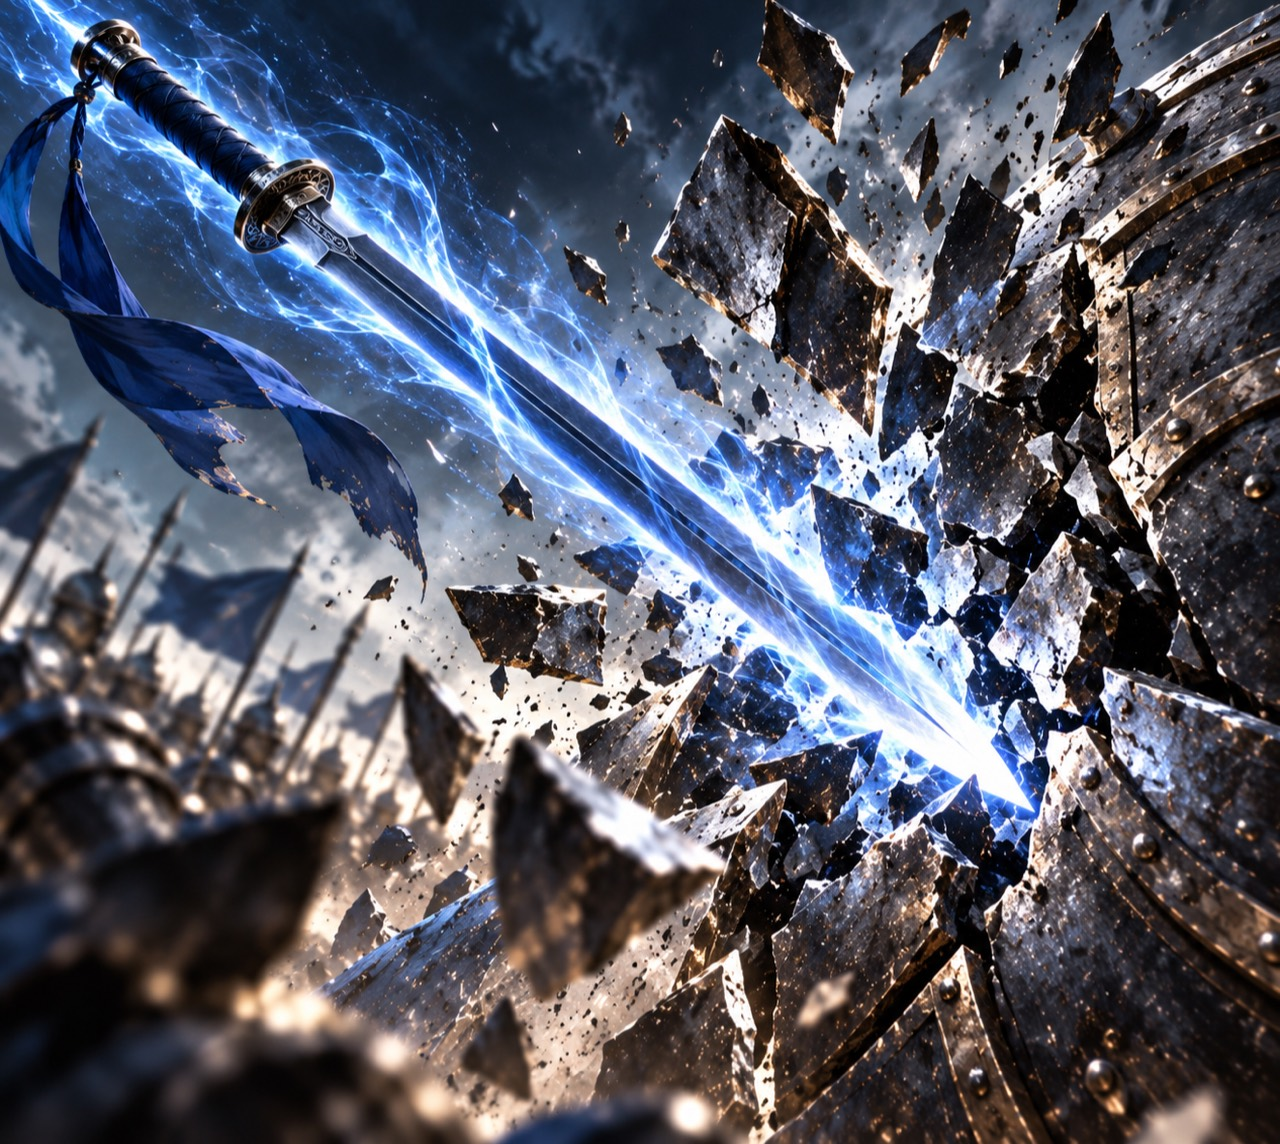
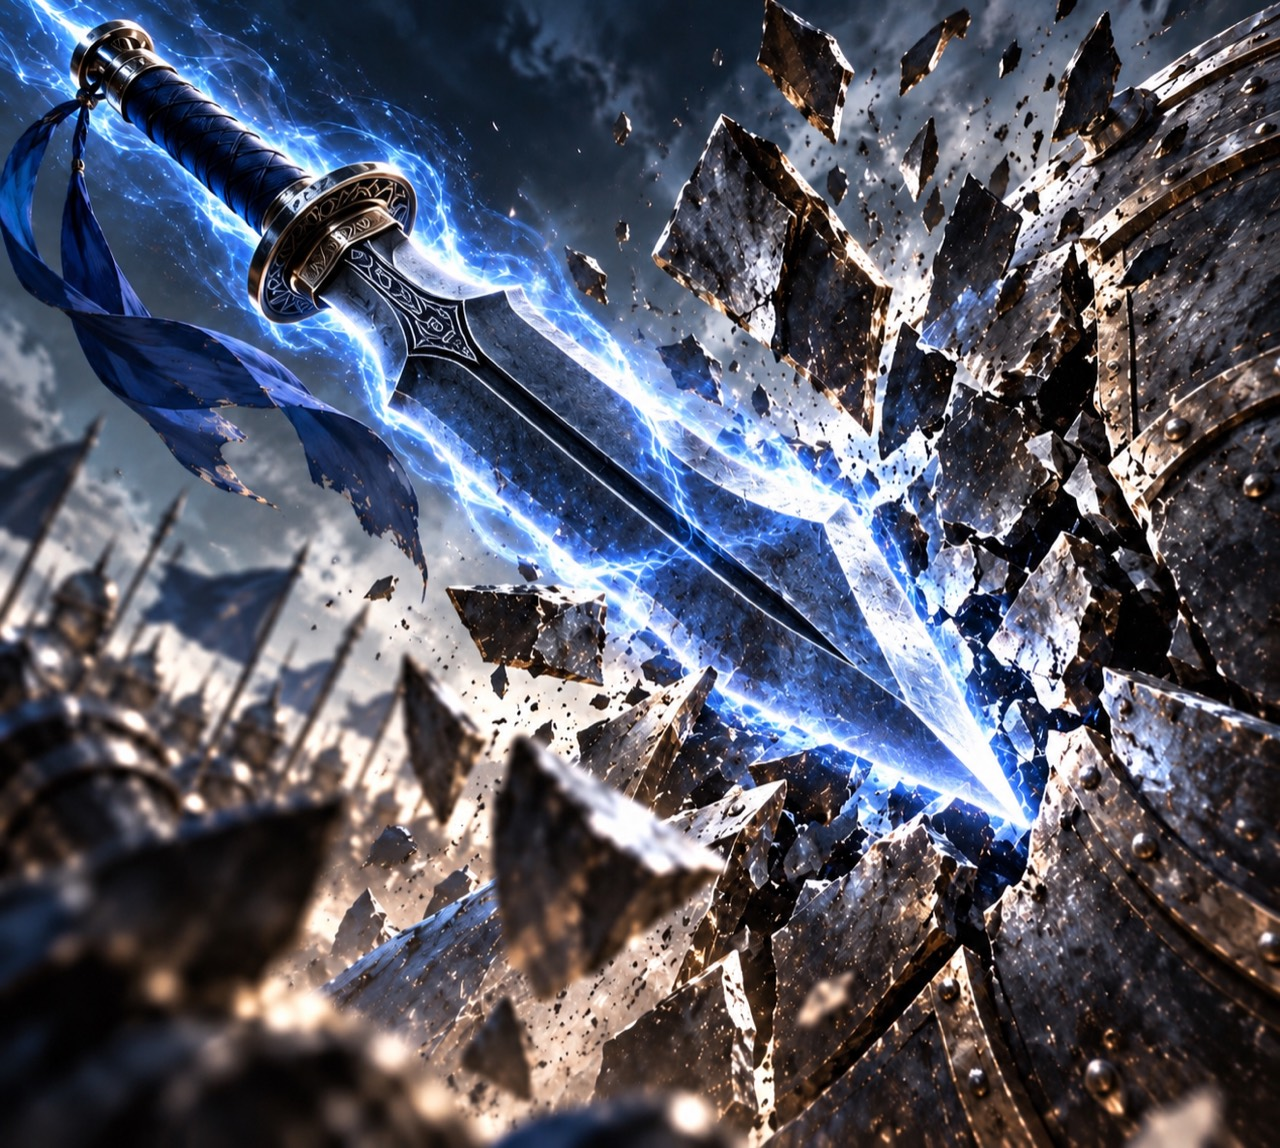
Update weapon and shield card artwork

diff --git a/app/globals.css b/app/globals.css
@@ -79,6 +79,9 @@ input{font:inherit}.landing-shell,.lobby-shell{min-height:100vh;position:relativ
 .game-card.shadowrunner,.played-card.shadowrunner,.game-card.hexmark,.played-card.hexmark,.game-card.yellowhoofedflyinglightning,.played-card.yellowhoofedflyinglightning,.game-card.defensivehorse,.played-card.defensivehorse{background-image:linear-gradient(180deg,#07111bc4 0%,#1f4d6b70 46%,#03070ce8 100%),url("/defensive-horse-card.jpg");background-position:center;background-size:cover;border-color:#a9d8ef;color:#effaff;text-shadow:0 1px 4px #000}.game-card.shadowrunner .card-name-mark,.played-card.shadowrunner .card-name-mark,.game-card.hexmark .card-name-mark,.played-card.hexmark .card-name-mark,.game-card.yellowhoofedflyinglightning .card-name-mark,.played-card.yellowhoofedflyinglightning .card-name-mark,.game-card.defensivehorse .card-name-mark,.played-card.defensivehorse .card-name-mark{color:#d7f2ff;text-shadow:0 2px 5px #000}.game-card.shadowrunner>strong,.played-card.shadowrunner>strong,.game-card.hexmark>strong,.played-card.hexmark>strong,.game-card.yellowhoofedflyinglightning>strong,.played-card.yellowhoofedflyinglightning>strong,.game-card.defensivehorse>strong,.played-card.defensivehorse>strong{color:#e2f7ff;text-shadow:0 1px 4px #000}.game-card.shadowrunner .corner,.played-card.shadowrunner>i,.game-card.hexmark .corner,.played-card.hexmark>i,.game-card.yellowhoofedflyinglightning .corner,.played-card.yellowhoofedflyinglightning>i,.game-card.defensivehorse .corner,.played-card.defensivehorse>i{text-shadow:0 2px 5px #000}
 .game-card.rockcleavingaxe,.played-card.rockcleavingaxe{background-image:linear-gradient(180deg,#090b10c7 0%,#59402570 46%,#050607e8 100%),url("/rock-cleaving-axe-card.jpg");background-position:center;background-size:cover;border-color:#e1b46f;color:#fff0d1;text-shadow:0 1px 4px #000}.game-card.rockcleavingaxe .card-name-mark,.played-card.rockcleavingaxe .card-name-mark{color:#ffe0a4;text-shadow:0 2px 5px #000}.game-card.rockcleavingaxe>strong,.played-card.rockcleavingaxe>strong{color:#ffe8bd;text-shadow:0 1px 4px #000}.game-card.rockcleavingaxe .corner,.played-card.rockcleavingaxe>i{text-shadow:0 2px 5px #000}
 .game-card.bluesteelsword,.played-card.bluesteelsword{background-image:linear-gradient(180deg,#061124c7 0%,#0d4e8c70 46%,#03060de8 100%),url("/blue-steel-sword-card.jpg");background-position:center;background-size:cover;border-color:#80caff;color:#e9f6ff;text-shadow:0 1px 4px #000}.game-card.bluesteelsword .card-name-mark,.played-card.bluesteelsword .card-name-mark{color:#c8ecff;text-shadow:0 2px 5px #000}.game-card.bluesteelsword>strong,.played-card.bluesteelsword>strong{color:#dff3ff;text-shadow:0 1px 4px #000}.game-card.bluesteelsword .corner,.played-card.bluesteelsword>i{text-shadow:0 2px 5px #000}
+.game-card.serpentspear,.played-card.serpentspear{background-image:linear-gradient(180deg,#041915c7 0%,#0c6a5b70 46%,#020807e8 100%),url("/serpent-spear-card.jpg");background-position:center;background-size:cover;border-color:#76d9bd;color:#e4fff6;text-shadow:0 1px 4px #000}.game-card.serpentspear .card-name-mark,.played-card.serpentspear .card-name-mark{color:#bfffea;text-shadow:0 2px 5px #000}.game-card.serpentspear>strong,.played-card.serpentspear>strong{color:#d8fff2;text-shadow:0 1px 4px #000}.game-card.serpentspear .corner,.played-card.serpentspear>i{text-shadow:0 2px 5px #000}
+.game-card.kirinbow,.played-card.kirinbow{background-image:linear-gradient(180deg,#160f05c7 0%,#9b661f70 46%,#090603e8 100%),url("/kirin-bow-card.jpg");background-position:center;background-size:cover;border-color:#f0c66e;color:#fff2cf;text-shadow:0 1px 4px #000}.game-card.kirinbow .card-name-mark,.played-card.kirinbow .card-name-mark{color:#ffe3a1;text-shadow:0 2px 5px #000}.game-card.kirinbow>strong,.played-card.kirinbow>strong{color:#ffedbf;text-shadow:0 1px 4px #000}.game-card.kirinbow .corner,.played-card.kirinbow>i{text-shadow:0 2px 5px #000}
+.game-card.nioshield,.played-card.nioshield{background-image:linear-gradient(180deg,#090807c7 0%,#6f471b70 46%,#050505e8 100%),url("/nio-shield-card.jpg");background-position:center;background-size:cover;border-color:#edc36d;color:#fff1cc;text-shadow:0 1px 4px #000}.game-card.nioshield .card-name-mark,.played-card.nioshield .card-name-mark{color:#ffe2a1;text-shadow:0 2px 5px #000}.game-card.nioshield>strong,.played-card.nioshield>strong{color:#ffebbd;text-shadow:0 1px 4px #000}.game-card.nioshield .corner,.played-card.nioshield>i{text-shadow:0 2px 5px #000}
 .rejoin-button{width:100%;margin:0 0 10px;padding:14px;background:#1e3028;color:#d9c990;border:1px solid #668873;text-transform:uppercase;font:10px Arial;letter-spacing:.14em;cursor:pointer}.rejoin-button:disabled{opacity:.35;cursor:not-allowed}
 .player-table-seat{--radius:min(28vw,335px);position:absolute;left:50%;top:50%;width:130px;translate:-50% -50%;transform:rotate(var(--angle)) translateY(calc(var(--radius) * -1)) rotate(calc(var(--angle) * -1));z-index:1}.player-table-seat>.started-player{position:relative;inset:auto;width:100%;translate:none;transform:none}.player-equipment-zone{position:absolute;left:calc(100% + 7px);top:50%;translate:0 -50%;width:62px;padding:4px;border:1px solid #8e743e;background:#11140ee8;box-shadow:0 8px 18px #0008;color:#d9bb77;text-align:center}.player-table-seat-3 .player-equipment-zone{left:auto;right:calc(100% + 7px)}.player-equipment-zone>span{display:block;margin:1px 0 4px;font:6px Arial;letter-spacing:.08em;text-transform:uppercase;color:#9f977f}.player-equipment-zone>div{display:flex;gap:3px}.player-equipment-card{position:relative;width:52px;min-width:52px;height:72px;padding:6px 3px 4px;display:flex;flex-direction:column;align-items:center;justify-content:flex-end;border:1px solid #c5af83;border-radius:3px;background:#eee4ce;color:#25231e;box-shadow:0 4px 9px #0008}.player-equipment-card>i{position:absolute;left:4px;top:3px;font:bold 9px Arial;font-style:normal}.player-equipment-card>i small{display:block;font-size:8px}.player-equipment-card>b{font-size:8px;line-height:1.05}.player-equipment-card>em{margin-top:3px;font:5px Arial;font-style:normal;letter-spacing:.06em;text-transform:uppercase;color:#796f5c}
 @media(max-width:800px){.player-table-seat{--radius:38vw;width:110px}.player-equipment-zone{width:55px}.player-equipment-card{width:45px;min-width:45px;height:64px}}

diff --git a/HANDOVER.md b/HANDOVER.md
@@ -129,6 +129,25 @@ No gameplay protocol, Rock Cleaving Axe `attack_dodged` continuation, or Blue
 Steel Sword Armor-suppression behavior changed. Recommended next work remains
 the next individually verified Standard hero capability.
 
+## Blue Steel Sword update, Serpent Spear, Kirin Bow, and Nio Shield artwork — 2026-09-20
+
+The supplied Blue Steel Sword replacement is stored at
+`public/blue-steel-sword-card.jpg`. New artwork is stored at
+`public/serpent-spear-card.jpg`, `public/kirin-bow-card.jpg`, and
+`public/nio-shield-card.jpg`. They are applied to the shared
+`.game-card`/`.played-card` classes for `bluesteelsword`, `serpentspear`,
+`kirinbow`, and `nioshield`. Hand cards, centre reveals, private draws,
+equipment previews, target-card previews, and settled table cards share the
+respective visuals. Their blue, teal, gold, and gold/black contrast treatments
+preserve physical rank/suit, equipment names, and category labels while the
+existing suit-colour corner rules remain authoritative.
+
+No gameplay protocol, Blue Steel Sword Armor suppression, Serpent Spear Attack
+provider, Kirin Bow damage trigger, or Nio Shield passive prevention behavior
+changed. Kirin Bow remains presentation-only compatibility artwork because its
+existing deck/status boundaries are unchanged. Recommended next work remains
+the next individually verified Standard hero capability.
+
 ## Eight Trigrams Formation card artwork — 2026-09-20
 
 The supplied shield artwork is now stored at

diff --git a/README.md b/README.md
@@ -84,6 +84,15 @@ artwork across the same shared surfaces. Rock Cleaving Axe uses a stone/ember
 treatment and Blue Steel Sword uses a blue-steel treatment; both preserve their
 physical rank/suit and equipment labels without changing card semantics.
 
+The Blue Steel Sword artwork has been updated to the supplied close-up blade
+artwork. Its existing blue-steel contrast treatment remains shared across hand,
+reveal, equipment, and settled-card surfaces without changing card semantics.
+
+The standard Serpent Spear, Kirin Bow, and Nio Shield cards now use their
+supplied artwork across the same shared surfaces. Their teal, gold, and
+gold/black contrast treatments preserve physical rank/suit and equipment labels
+without changing weapon or Armor semantics.
+
 The hero start phase now uses the supplied Standard English card metadata for
 Cao Cao (Treachery, Entourage), Liu Bei (Benevolence, Influencing), Sun Quan
 (Equilibrium, Deliverance), Sima Yi (Retaliation, Necromancy), Xiahou Dun
